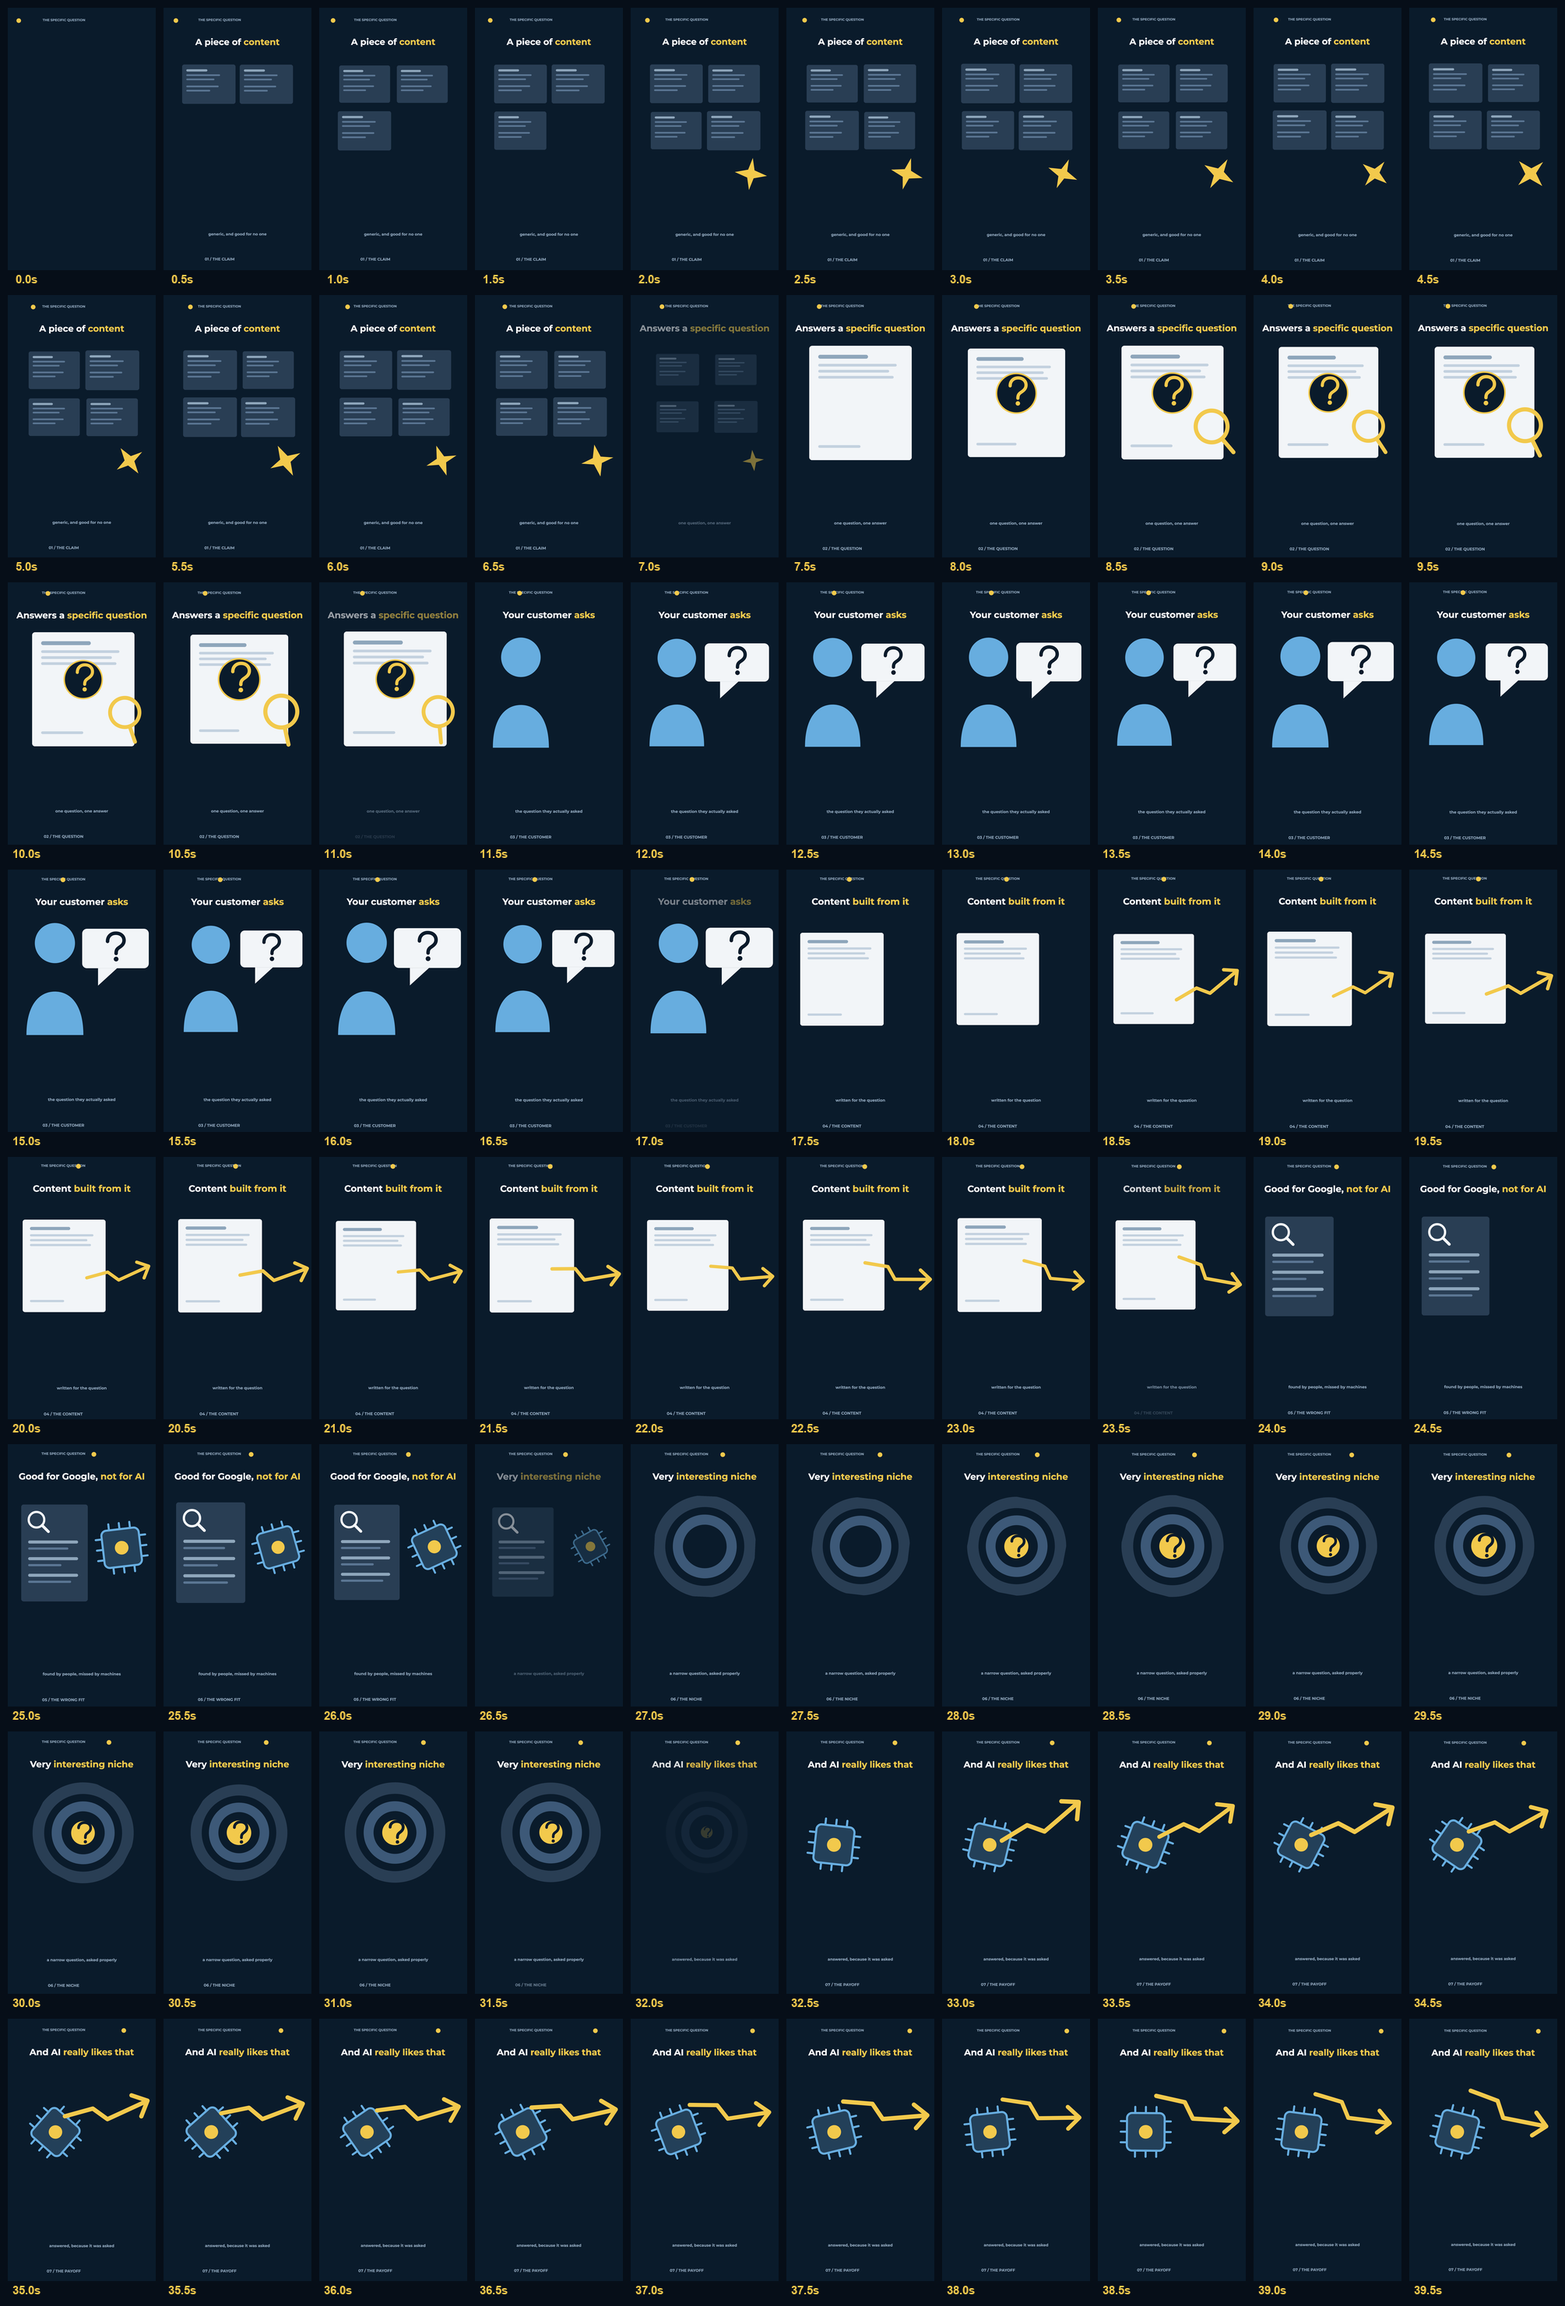
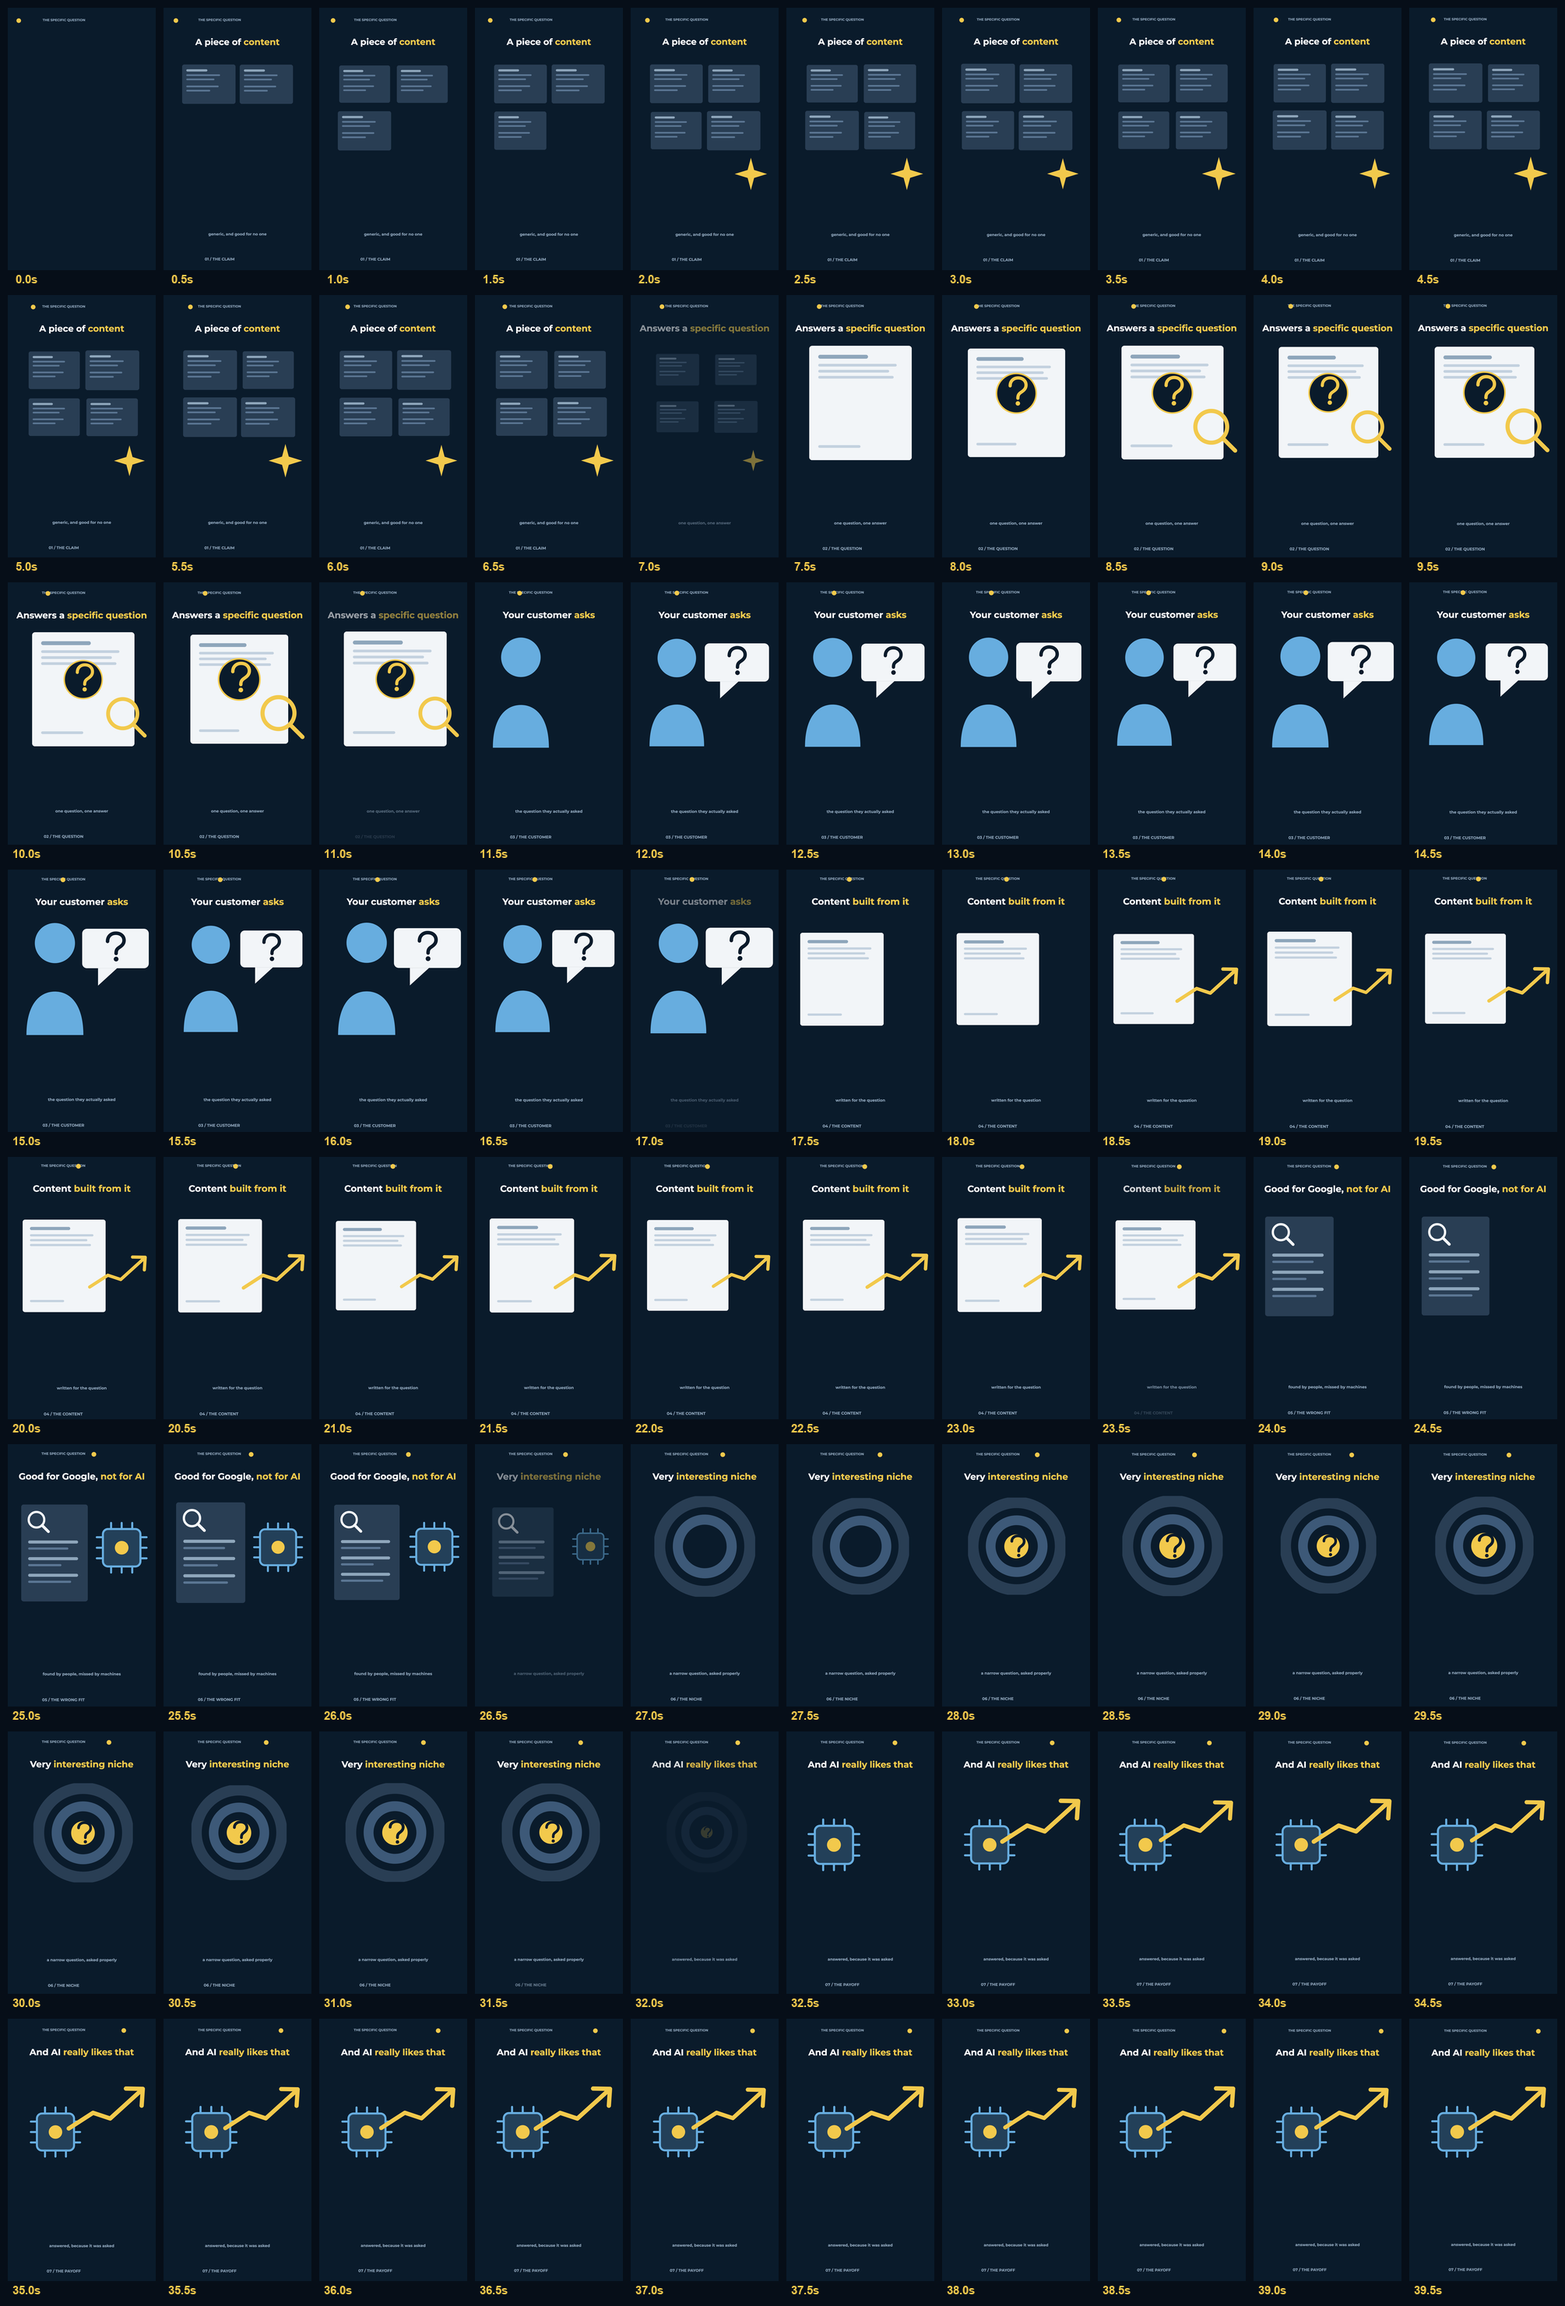
Motion may never flip what a picture MEANS (#3154)
Firstmate's read of the 2 fps sheet (2026-10-21):

> the rising arrow DIPS DOWNWARD as it moves - at 20.0-23.5 s ("Content
> built from it") it bends down, and at 37.0-39.5 s, the payoff "And AI
> really likes that", it ends pointing DOWN, which says the opposite of
> the words. The motion on a rising arrow must keep it rising (grow,
> pulse, extend upward). Also check the same for every other moving
> element: motion may never flip what a picture means.

It was the SPIN. A continuous rotation turned a rising arrow 8 degrees
a second, and over the seven seconds of a beat it ended up pointing
down - the opposite of "content built from it" and of "and AI really
likes that".

**The declaration is the only place that knows what a picture means,
so it says so, and the engine refuses the motion that would flip it.**
An element may declare `upright: true`, and an upright element with a
`spin` is REFUSED by name.  The engine cannot know that an arrow means
"up"; the project can, and now the two are on the same side of it.

The engine's guard is narrow on purpose: a picture that may turn still
may, because a rotationally symmetric mark turning is motion and not
meaning.

And the composition stops turning its flat icons at all - a tilted
chip, a tilted target ring and a tilted question mark are not motion,
they are mistakes.  What is left is the motion that reads: the arrow
GROWS and RISES (it slides UP into place from below and drifts up), the
[…]

diff --git a/library/tools/explainer_plan.py b/library/tools/explainer_plan.py
@@ -668,6 +668,23 @@ def normalise_beats_declaration(raw: Any) -> dict:
                     raise ExplainerError(
                         f"{label}.spin is {element['spin']!r}, which is "
                         f"not a number of degrees per second.") from None
+                if element.get("upright"):
+                    # A picture whose MEANING depends on which way it
+                    # points may not be turned.  The captain's frames
+                    # showed a RISING arrow ending up pointing DOWN,
+                    # which says the opposite of the words it was
+                    # there to say ("content built from it", "and AI
+                    # really likes that").  The declaration is the only
+                    # place that knows what a picture means, so it says
+                    # so - and the engine refuses the motion that would
+                    # flip it.
+                    raise ExplainerError(
+                        f"{label} is upright and names a spin. A picture "
+                        f"whose meaning depends on which way it points "
+                        f"may not be turned: an arrow that ends pointing "
+                        f"down says the opposite of the words it is "
+                        f"there to say. Take the spin off it, or drop "
+                        f"the upright.")
             if element.get("pulse") is not None:
                 pulse = element.get("pulse")
                 if not isinstance(pulse, dict):
@@ -1454,6 +1471,7 @@ def plan_beats(declarations: Sequence[Any], lines: Sequence[dict],
                                                   or (0.0, 0.0))),
                 "pulse": dict(element.get("pulse") or {}),
                 "spin": element.get("spin"),
+                "upright": bool(element.get("upright")),
             })
         if raw.get("elements") and not elements:
             continue
@@ -1561,6 +1579,7 @@ def plan_beats(declarations: Sequence[Any], lines: Sequence[dict],
                                                       or (0.0, 0.0))),
                     "pulse": dict(element.get("pulse") or {}),
                     "spin": element.get("spin"),
+                    "upright": bool(element.get("upright")),
                 })
             if steps == [] and step_elements == [] and (step.get("elements")
                                                        or []):

diff --git a/tests/unit/captions/test_explainer_beats.py b/tests/unit/captions/test_explainer_beats.py
@@ -757,3 +757,37 @@ def test_a_label_leaves_with_its_beat():
     for label in labels:
         opacity = label["placement"]["opacity"]
         assert opacity[-1]["value"] == 0.0, opacity
+
+
+def test_an_upright_picture_may_not_be_turned():
+    """Motion may never flip what a picture MEANS.
+
+    The captain's frames showed a RISING arrow ending up pointing DOWN
+    ("content built from it", "and AI really likes that"), which says
+    the opposite of the words it is there to say.  The declaration is
+    the only place that knows what a picture means, so it says so -
+    `upright: true` - and the engine refuses the motion that would
+    flip it.
+    """
+    declaration = _declaration()
+    declaration["beats"] = [{
+        "quote": "customer",
+        "elements": [{"id": "arrow", "asset": "brand_assets/arrow.svg",
+                      "box": [60, 400, 980, 800],
+                      "upright": True, "spin": 8}],
+    }]
+    with pytest.raises(ex.ExplainerError) as turned:
+        ex.normalise_beats_declaration(declaration)
+    assert "upright" in str(turned.value)
+
+
+def test_a_picture_that_may_turn_still_may():
+    """The guard is the DECLARATION's, and it is narrow."""
+    declaration = _declaration()
+    declaration["beats"] = [{
+        "quote": "customer",
+        "elements": [{"id": "chip", "asset": "brand_assets/chip.svg",
+                      "box": [60, 400, 980, 800], "spin": 8}],
+    }]
+    declared = ex.normalise_beats_declaration(declaration)
+    assert declared[ex.BEATS_KEY]
